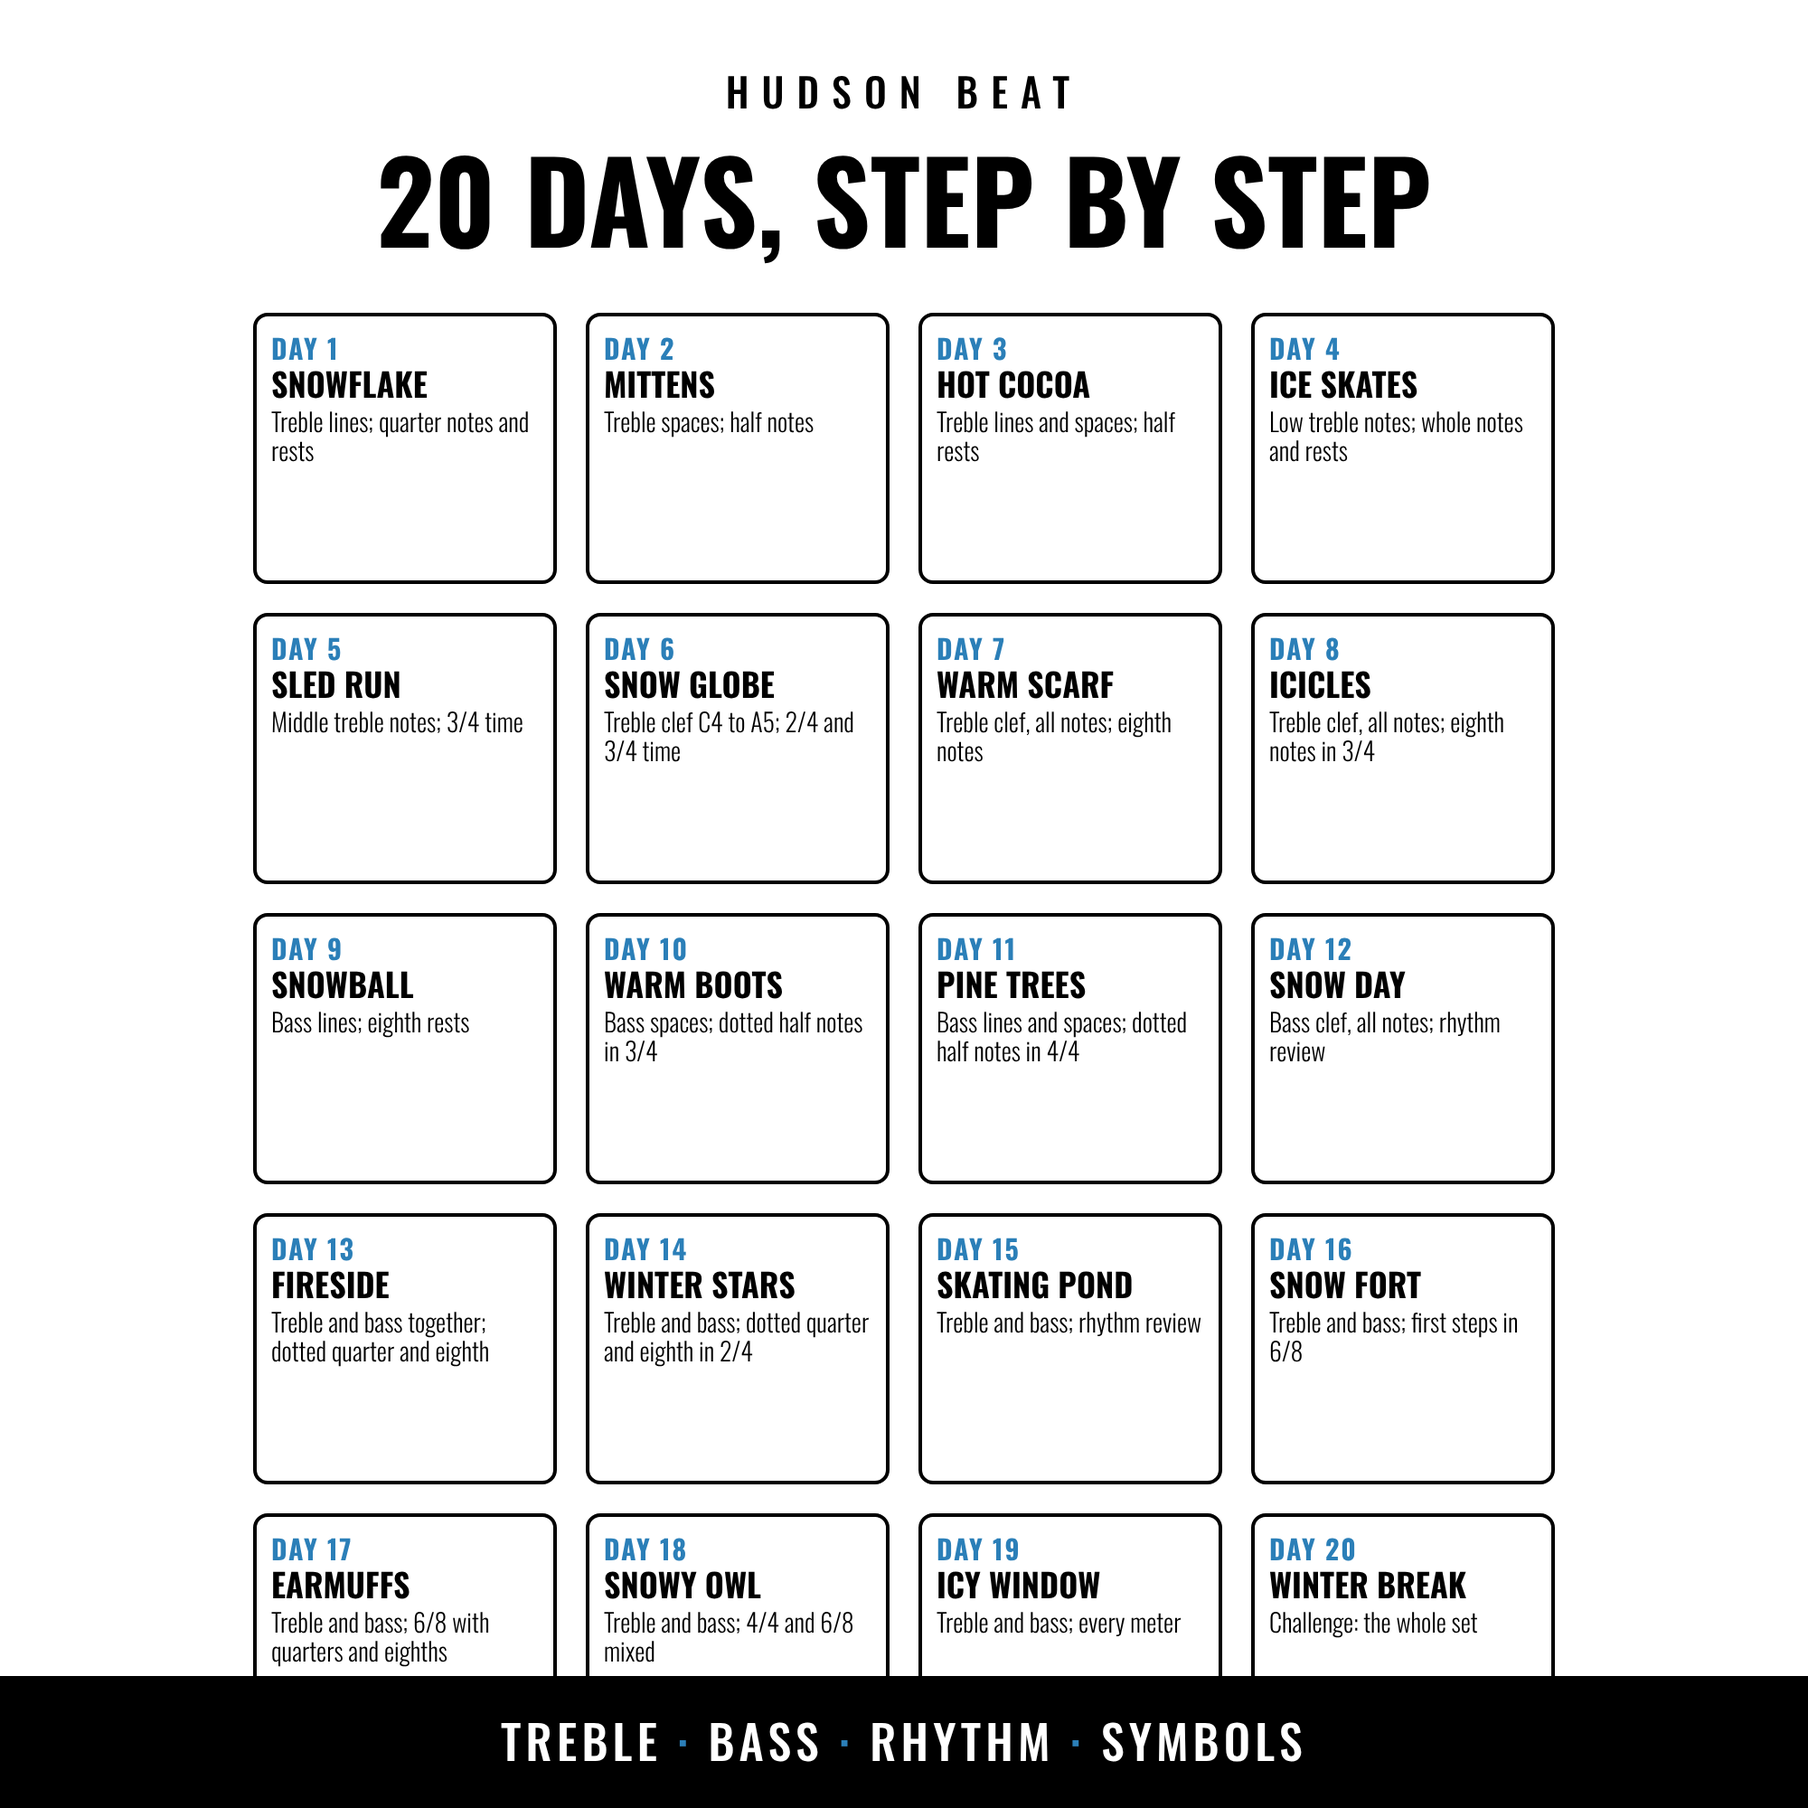
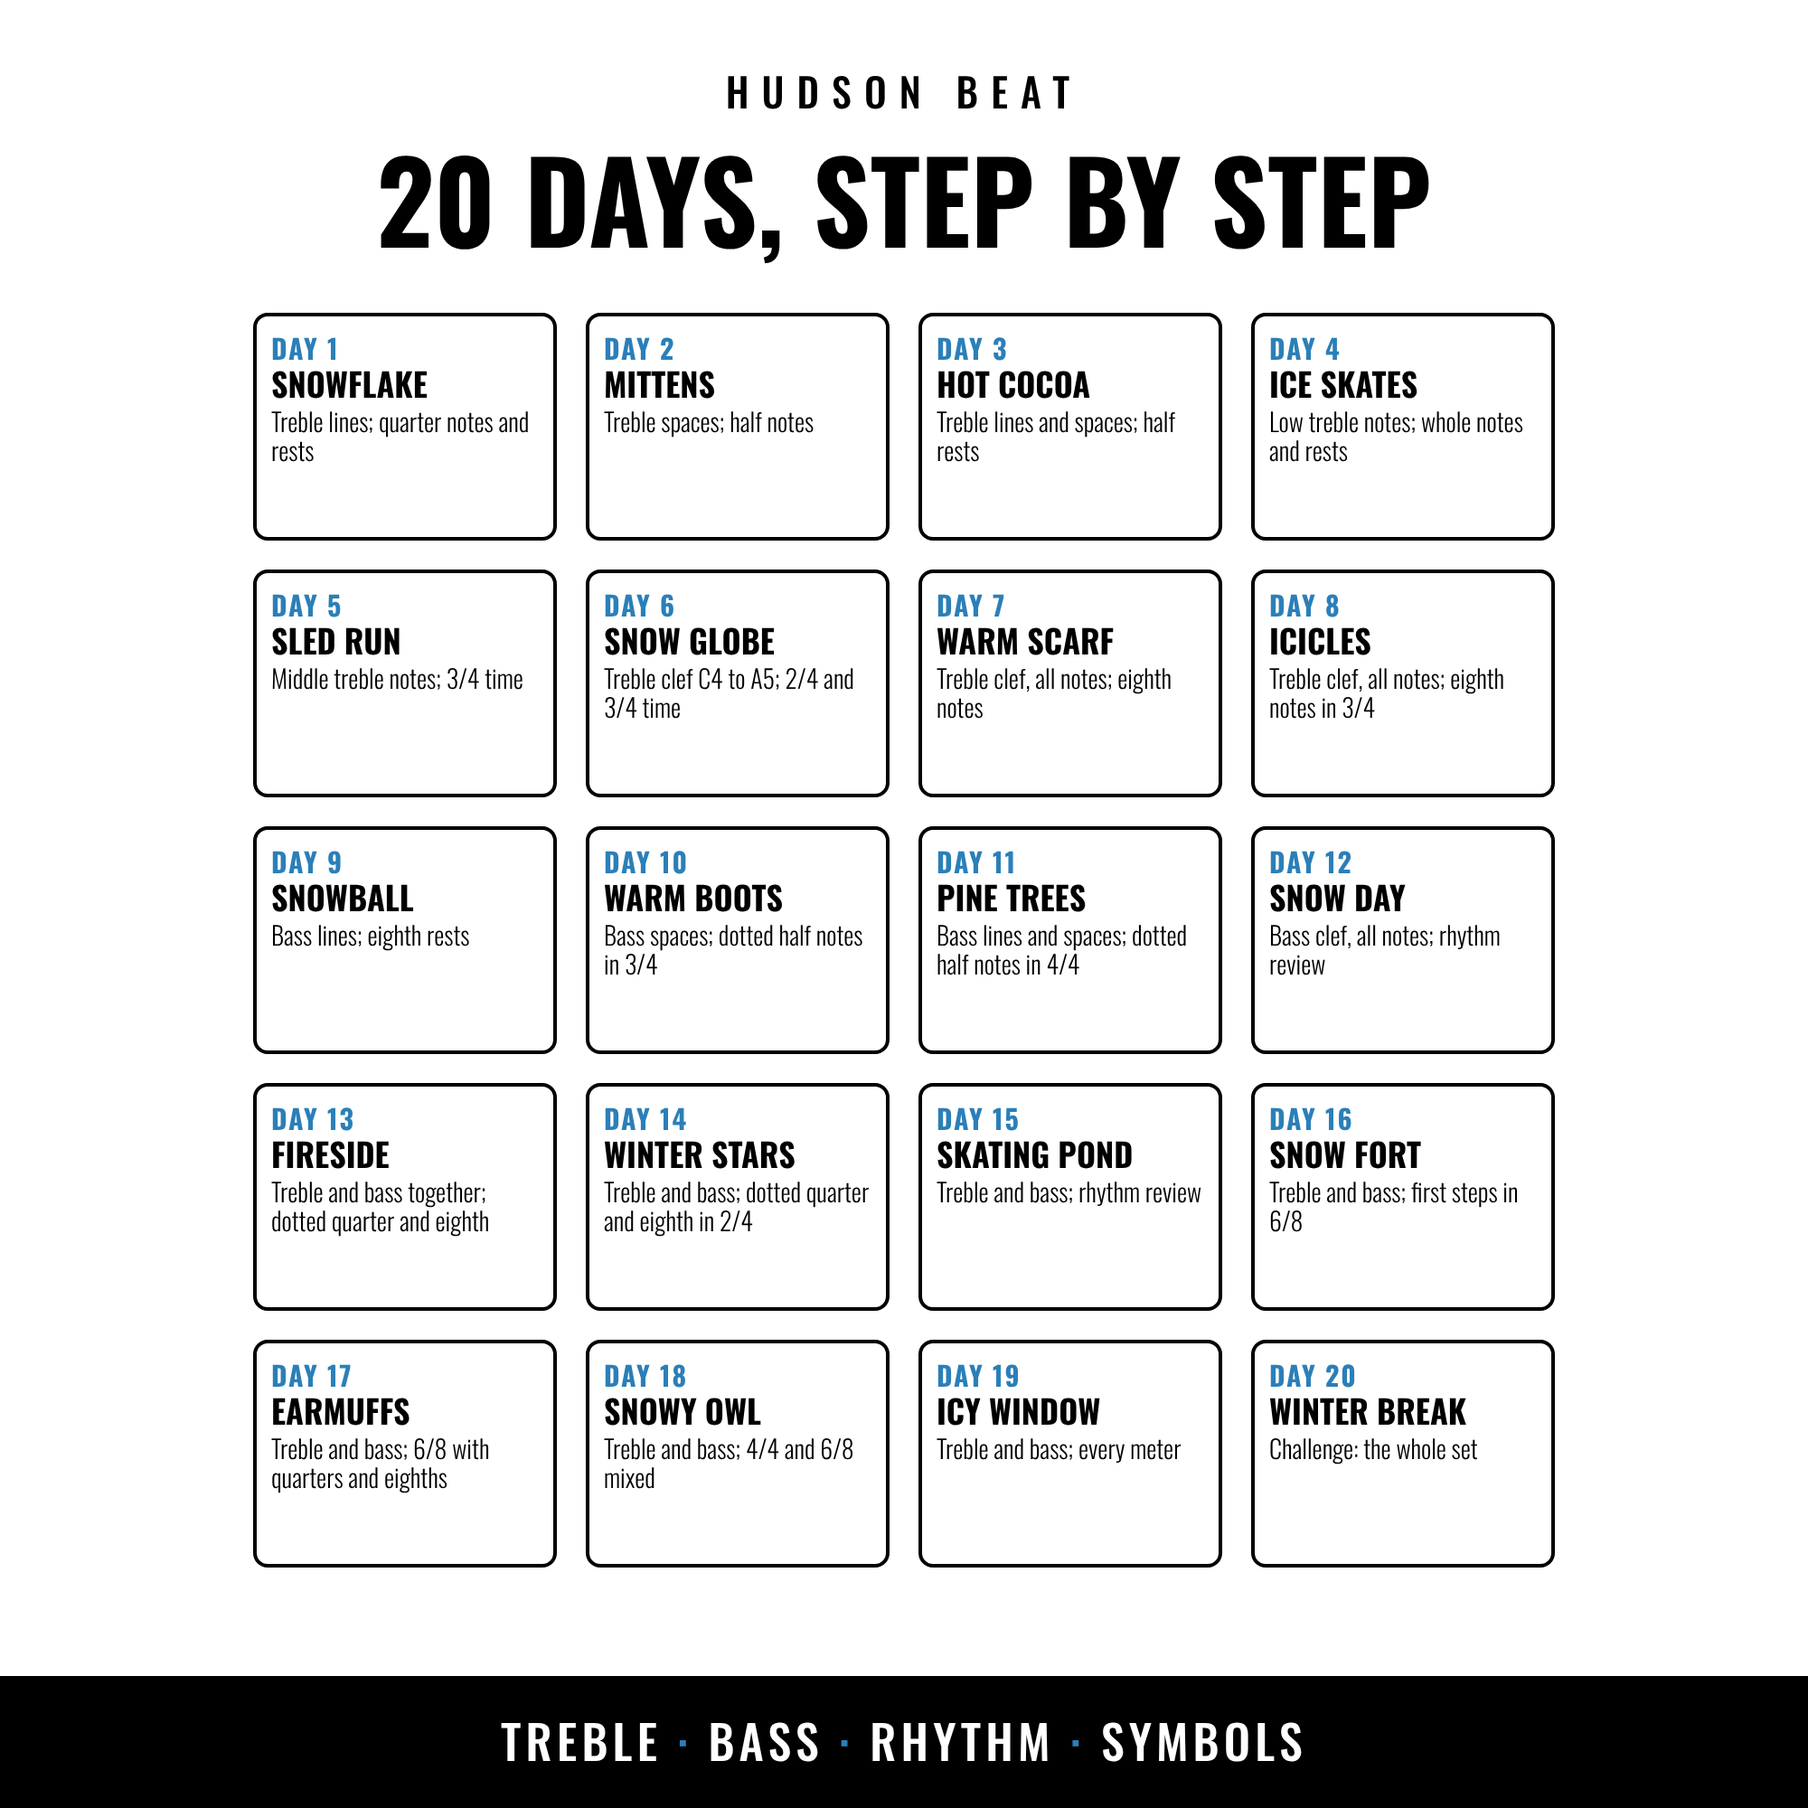
TpT 038 December Music Bell-Ringers: rescued, released
Claude-Session: https://claude.ai/code/session_01PMk4civaSDTgEB9sBVMyMH

Changed region(s): [[0.124, 0.31, 0.868, 0.93]]

diff --git a/tpt/038-december-music-bell-ringers/build/p3.html b/tpt/038-december-music-bell-ringers/build/p3.html
@@ -138,4 +138,4 @@ html,body{margin:0;background:#fff}
 .sec4 svg { margin: 0 auto; }
 .sec4 b { display: block; font-family: 'Oswald'; font-weight: 700; text-transform: uppercase; font-size: 20px; margin-top: 2px; }
 .sec4 span { font-family: 'Oswald'; font-weight: 300; font-size: 16px; display: block; }
-</style></head><body><div class="sq"><div class="store">Hudson Beat</div><div class="hd" style="font-size:62px;margin-top:14px">20 days, step by step</div><div style="display:flex;flex-wrap:wrap;gap:16px;width:900px;margin-top:34px;justify-content:center"><div class="dc" style="width:168px;height:150px"><div class="dn">DAY 1</div><div class="dt">Snowflake</div><div class="df">Treble lines; quarter notes and rests</div></div><div class="dc" style="width:168px;height:150px"><div class="dn">DAY 2</div><div class="dt">Mittens</div><div class="df">Treble spaces; half notes</div></div><div class="dc" style="width:168px;height:150px"><div class="dn">DAY 3</div><div class="dt">Hot Cocoa</div><div class="df">Treble lines and spaces; half rests</div></div><div class="dc" style="width:168px;height:150px"><div class="dn">DAY 4</div><div class="dt">Ice Skates</div><div class="df">Low treble notes; whole notes and rests</div></div><div class="dc" style="width:168px;height:150px"><div class="dn">DAY 5</div><div class="dt">Sled Run</div><div class="df">Middle treble notes; 3/4 time</div></div><div class="dc" style="width:168px;height:150px"><div class="dn">DAY 6</div><div class="dt">Snow Globe</div><div class="df">Treble clef C4 to A5; 2/4 and 3/4 time</div></div><div class="dc" style="width:168px;height:150px"><div class="dn">DAY 7</div><div class="dt">Warm Scarf</div><div class="df">Treble clef, all notes; eighth notes</div></div><div class="dc" style="width:168px;height:150px"><div class="dn">DAY 8</div><div class="dt">Icicles</div><div class="df">Treble clef, all notes; eighth notes in 3/4</div></div><div class="dc" style="width:168px;height:150px"><div class="dn">DAY 9</div><div class="dt">Snowball</div><div class="df">Bass lines; eighth rests</div></div><div class="dc" style="width:168px;height:150px"><div class="dn">DAY 10</div><div class="dt">Warm Boots</div><div class="df">Bass spaces; dotted half notes in 3/4</div></div><div class="dc" style="width:168px;height:150px"><div class="dn">DAY 11</div><div class="dt">Pine Trees</div><div class="df">Bass lines and spaces; dotted half notes in 4/4</div></div><div class="dc" style="width:168px;height:150px"><div class="dn">DAY 12</div><div class="dt">Snow Day</div><div class="df">Bass clef, all notes; rhythm review</div></div><div class="dc" style="width:168px;height:150px"><div class="dn">DAY 13</div><div class="dt">Fireside</div><div class="df">Treble and bass together; dotted quarter and eighth</div></div><div class="dc" style="width:168px;height:150px"><div class="dn">DAY 14</div><div class="dt">Winter Stars</div><div class="df">Treble and bass; dotted quarter and eighth in 2/4</div></div><div class="dc" style="width:168px;height:150px"><div class="dn">DAY 15</div><div class="dt">Skating Pond</div><div class="df">Treble and bass; rhythm review</div></div><div class="dc" style="width:168px;height:150px"><div class="dn">DAY 16</div><div class="dt">Snow Fort</div><div class="df">Treble and bass; first steps in 6/8</div></div><div class="dc" style="width:168px;height:150px"><div class="dn">DAY 17</div><div class="dt">Earmuffs</div><div class="df">Treble and bass; 6/8 with quarters and eighths</div></div><div class="dc" style="width:168px;height:150px"><div class="dn">DAY 18</div><div class="dt">Snowy Owl</div><div class="df">Treble and bass; 4/4 and 6/8 mixed</div></div><div class="dc" style="width:168px;height:150px"><div class="dn">DAY 19</div><div class="dt">Icy Window</div><div class="df">Treble and bass; every meter</div></div><div class="dc" style="width:168px;height:150px"><div class="dn">DAY 20</div><div class="dt">Winter Break</div><div class="df">Challenge: the whole set</div></div></div><div class="band">Treble <em>·</em> bass <em>·</em> rhythm <em>·</em> symbols</div></div></body></html>
+</style></head><body><div class="sq"><div class="store">Hudson Beat</div><div class="hd" style="font-size:62px;margin-top:14px">20 days, step by step</div><div style="display:flex;flex-wrap:wrap;gap:16px;width:900px;margin-top:34px;justify-content:center"><div class="dc" style="width:168px;height:126px"><div class="dn">DAY 1</div><div class="dt">Snowflake</div><div class="df">Treble lines; quarter notes and rests</div></div><div class="dc" style="width:168px;height:126px"><div class="dn">DAY 2</div><div class="dt">Mittens</div><div class="df">Treble spaces; half notes</div></div><div class="dc" style="width:168px;height:126px"><div class="dn">DAY 3</div><div class="dt">Hot Cocoa</div><div class="df">Treble lines and spaces; half rests</div></div><div class="dc" style="width:168px;height:126px"><div class="dn">DAY 4</div><div class="dt">Ice Skates</div><div class="df">Low treble notes; whole notes and rests</div></div><div class="dc" style="width:168px;height:126px"><div class="dn">DAY 5</div><div class="dt">Sled Run</div><div class="df">Middle treble notes; 3/4 time</div></div><div class="dc" style="width:168px;height:126px"><div class="dn">DAY 6</div><div class="dt">Snow Globe</div><div class="df">Treble clef C4 to A5; 2/4 and 3/4 time</div></div><div class="dc" style="width:168px;height:126px"><div class="dn">DAY 7</div><div class="dt">Warm Scarf</div><div class="df">Treble clef, all notes; eighth notes</div></div><div class="dc" style="width:168px;height:126px"><div class="dn">DAY 8</div><div class="dt">Icicles</div><div class="df">Treble clef, all notes; eighth notes in 3/4</div></div><div class="dc" style="width:168px;height:126px"><div class="dn">DAY 9</div><div class="dt">Snowball</div><div class="df">Bass lines; eighth rests</div></div><div class="dc" style="width:168px;height:126px"><div class="dn">DAY 10</div><div class="dt">Warm Boots</div><div class="df">Bass spaces; dotted half notes in 3/4</div></div><div class="dc" style="width:168px;height:126px"><div class="dn">DAY 11</div><div class="dt">Pine Trees</div><div class="df">Bass lines and spaces; dotted half notes in 4/4</div></div><div class="dc" style="width:168px;height:126px"><div class="dn">DAY 12</div><div class="dt">Snow Day</div><div class="df">Bass clef, all notes; rhythm review</div></div><div class="dc" style="width:168px;height:126px"><div class="dn">DAY 13</div><div class="dt">Fireside</div><div class="df">Treble and bass together; dotted quarter and eighth</div></div><div class="dc" style="width:168px;height:126px"><div class="dn">DAY 14</div><div class="dt">Winter Stars</div><div class="df">Treble and bass; dotted quarter and eighth in 2/4</div></div><div class="dc" style="width:168px;height:126px"><div class="dn">DAY 15</div><div class="dt">Skating Pond</div><div class="df">Treble and bass; rhythm review</div></div><div class="dc" style="width:168px;height:126px"><div class="dn">DAY 16</div><div class="dt">Snow Fort</div><div class="df">Treble and bass; first steps in 6/8</div></div><div class="dc" style="width:168px;height:126px"><div class="dn">DAY 17</div><div class="dt">Earmuffs</div><div class="df">Treble and bass; 6/8 with quarters and eighths</div></div><div class="dc" style="width:168px;height:126px"><div class="dn">DAY 18</div><div class="dt">Snowy Owl</div><div class="df">Treble and bass; 4/4 and 6/8 mixed</div></div><div class="dc" style="width:168px;height:126px"><div class="dn">DAY 19</div><div class="dt">Icy Window</div><div class="df">Treble and bass; every meter</div></div><div class="dc" style="width:168px;height:126px"><div class="dn">DAY 20</div><div class="dt">Winter Break</div><div class="df">Challenge: the whole set</div></div></div><div class="band">Treble <em>·</em> bass <em>·</em> rhythm <em>·</em> symbols</div></div></body></html>

diff --git a/tpt/038-december-music-bell-ringers/build/p2.html b/tpt/038-december-music-bell-ringers/build/p2.html
@@ -138,4 +138,4 @@ html,body{margin:0;background:#fff}
 .sec4 svg { margin: 0 auto; }
 .sec4 b { display: block; font-family: 'Oswald'; font-weight: 700; text-transform: uppercase; font-size: 20px; margin-top: 2px; }
 .sec4 span { font-family: 'Oswald'; font-weight: 300; font-size: 16px; display: block; }
-</style></head><body><div class="sq"><div class="store">Hudson Beat</div><div class="hd" style="font-size:70px;margin-top:20px">Answer keys included</div><div class="sub" style="font-size:27px;margin-top:8px">Letters, counts, symbols and missing beats, two days to a page</div><div style="display:flex;gap:40px;margin-top:30px"><div style="width:420px"><div class="shot"><img src="pv3.png"></div><div class="lbl">Daily page</div></div><div style="width:420px"><div class="shot"><img src="pv4.png"></div><div class="lbl">Answer key</div></div></div><div class="band">Keys for all 20 days</div></div></body></html>
+</style></head><body><div class="sq"><div class="store">Hudson Beat</div><div class="hd" style="font-size:70px;margin-top:20px">Answer keys included</div><div class="sub" style="font-size:27px;margin-top:8px">Letters, counts, symbols and missing beats, two days to a page</div><div style="display:flex;gap:40px;margin-top:30px"><div style="width:445px"><div class="shot"><img src="pv3.png"></div><div class="lbl">Daily page</div></div><div style="width:445px"><div class="shot"><img src="pv4.png"></div><div class="lbl">Answer key</div></div></div><div class="band">Keys for all 20 days</div></div></body></html>

diff --git a/tpt/038-december-music-bell-ringers/gen.py b/tpt/038-december-music-bell-ringers/gen.py
@@ -1233,7 +1233,7 @@ def preview_square_1(img):
 
 def preview_square_2(ws, key):
     pair = "".join(
-        f'<div style="width:420px"><div class="shot"><img src="{src}"></div>'
+        f'<div style="width:445px"><div class="shot"><img src="{src}"></div>'
         f'<div class="lbl">{lab}</div></div>' for src, lab in ((ws, "Daily page"), (key, "Answer key")))
     return sq_doc(
         f'<div class="sq"><div class="store">{BRAND}</div>'
@@ -1244,7 +1244,7 @@ def preview_square_2(ws, key):
 
 
 def preview_square_3():
-    cards = "".join(f'<div class="dc" style="width:168px;height:150px"><div class="dn">DAY {i + 1}</div><div class="dt">{escape(d[0])}</div>'
+    cards = "".join(f'<div class="dc" style="width:168px;height:126px"><div class="dn">DAY {i + 1}</div><div class="dt">{escape(d[0])}</div>'
                     f'<div class="df">{escape(d[1])}</div></div>' for i, d in enumerate(DAYS))
     return sq_doc(
         f'<div class="sq"><div class="store">{BRAND}</div>'

diff --git a/tpt/QUEUE.md b/tpt/QUEUE.md
@@ -37,7 +37,7 @@ Format: `- [ ] title (grades; what's in it; price; season)`. Tick when released.
 - [x] Nutcracker Listening Unit: story summary, 6 movement listening maps and response pages, instrument spotting, quiz with key; Tchaikovsky 1892 (grades 2–6; $6; December)
 - [x] Hanukkah Color by Note: rhythm, treble and bass clef, menorah, dreidel and star pictures, answer keys (grades 2–6; $3.50; Hanukkah, early December)
 - [x] Beginning Band Rhythm Counting Worksheets: write in the counts, 20 pages from quarter notes to dotted rhythms and 6/8, answer keys (grades 5–8; $5; evergreen)
-- [!] HELD (tpt/038-december-music-bell-ringers, QA rejected twice; preview-3.png Day 17-20 row clipped by footer) December Music Bell-Ringers: 20 no-prep daily warm-up pages, rhythm, note names, symbols, non-denominational, answer keys (grades 3–6; $4.50; December)
+- [x] December Music Bell-Ringers: 20 no-prep daily warm-up pages, rhythm, note names, symbols, non-denominational, answer keys (grades 3–6; $4.50; December)
 - [x] Winter Color by Music Symbol: colour by dynamics, tempo terms and symbols, 3 levels, answer keys (grades 2–5; $4; winter)
 - [!] HELD (tpt/041-band-orchestra-emergency-sub-plans, QA rejected twice; Lesson 4 matching p16 ambiguous vs key p26: swap key to M2 C / M4 A and reword item 2 or 4) Band and Orchestra Emergency Sub Plans: 5 no-instrument lessons a non-music sub can run, readings, worksheets, keys (grades 6–12; $7; evergreen)
 - [x] Winter Music Escape Room: print-and-go, 5 puzzles on note names, rhythms and symbols, teacher guide, answer key (grades 3–6; $5.50; winter)

diff --git a/tpt/LOG.md b/tpt/LOG.md
@@ -54,3 +54,4 @@
 - 2026-11-17 14:40 ET art automation: dedicated art session session_01PMk4cjmWWTfHMd838UXYvm (Sonnet, has the Higgsfield tools, repo attached) woken daily at 4:17am ET by trig_01BrEbfSYfwrkiM1NKsrTWMp; it follows tpt/_art/ART-BRIEF.md (art only for the next 24 h of builds, unused art discarded, usage in tpt/_art/USAGE.md, caps: 40 credits a run, stops under 60 credits, never buys credits). Disable it with the trigger if the credit balance or usage is a problem.
 - 2026-11-17 art run (13:35 ET, off-schedule wake): 0 items made, 0 credits used, balance 341.35. Today's 4 build slots (051/052 morning, Recorder Songbook, 8-Bit Holiday) are already covered by INDEX; tomorrow's slots wait for the 4:17am run. Unused discarded: 0 (nothing built or older than 3 days yet).
 - 2026-11-17 13:45 ET: Fix 5 (94c74b9): TpT posts thumbnails to /converter/convert_thumbs first (200) and the real form second (302); the old wait took the converter's 200 as the save and left, aborting it. All 17 'unverified' saves were aborted (nothing applied). Re-armed 34 replacements (020-037 live-edit kits, 039, 040, 042, 044 and the 12 old failures 002-019); 014 has no URL. Cap is 6 per Mac run, 3 failures in a row end a run.
+- 2026-11-17: 038-december-music-bell-ringers RESCUED and released (step 2b): preview-3 Day 17-20 card row no longer under the footer bar, preview-2 blank band trimmed; fresh inspector OK (NOTES only).

diff --git a/tpt/038-december-music-bell-ringers/QA.md b/tpt/038-december-music-bell-ringers/QA.md
@@ -11,3 +11,7 @@
 
 **Verdict: REJECTED**
 1. Fix `preview-3.png` layout so the Day 17-20 row sits fully above the footer bar (shorten the empty space in the cards or reduce the card height or gap); regenerate and re-run `gen.py --check`.
+
+## Rescue 2026-11-17
+Held rescue (step 2b): preview-3.png Day 17-20 card row no longer runs under the footer bar (card height reduced), preview-2.png blank band trimmed. Fresh Visual inspector re-checked cover, preview-1..3, all 35 PDF pages and 4 preview-PDF pages at full size: OK, no BLOCKING item. NOTES (not changed): blue counts tight under quarter rests on key pages, blank bands at the bottom of pp31-35, snowy-notes staves left-aligned on pp13-24.
+**Verdict: APPROVED**
